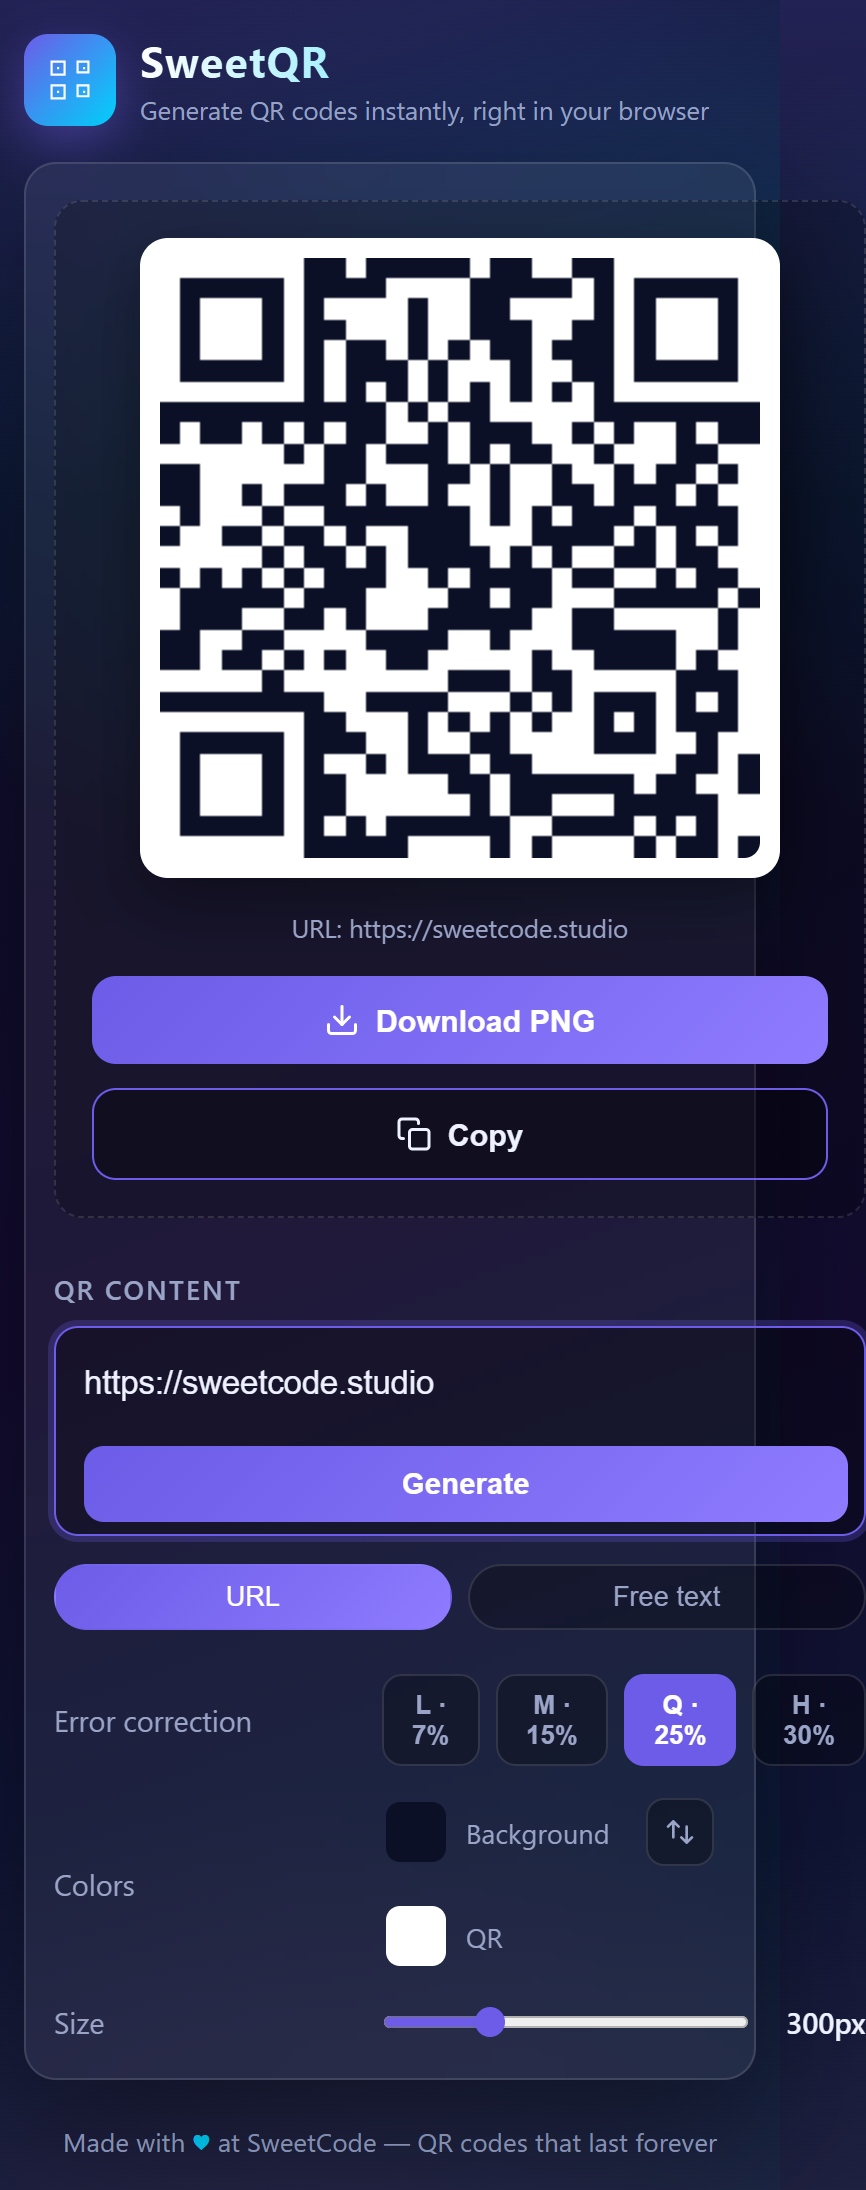
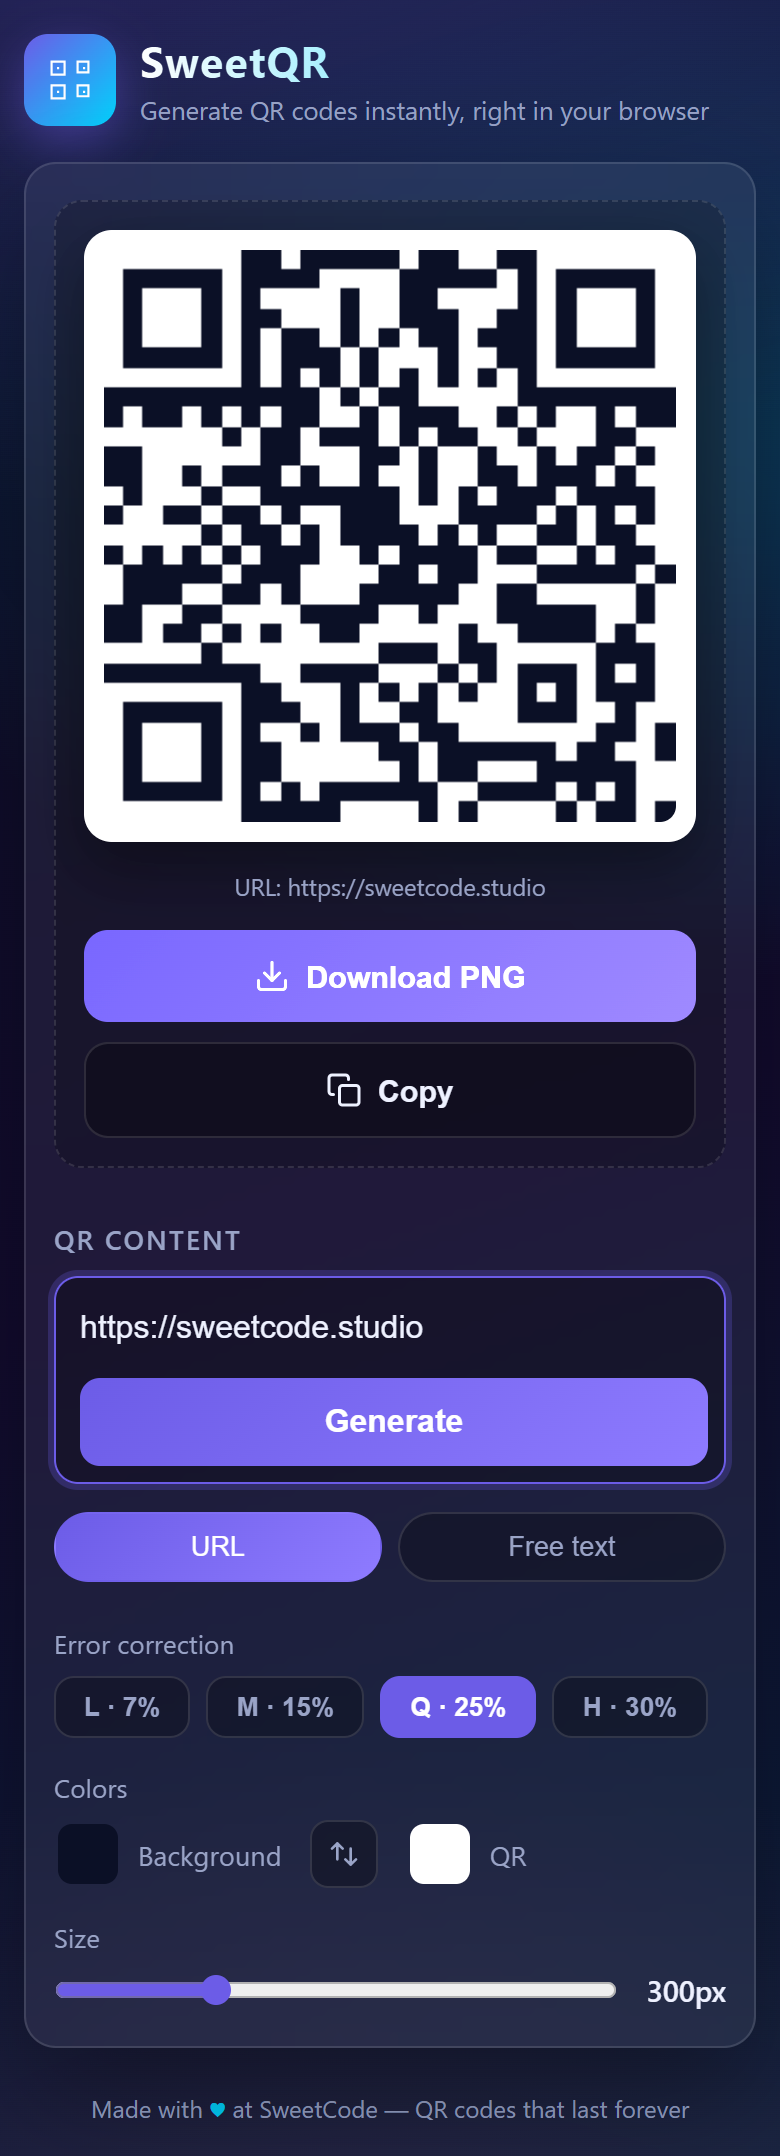
fix(css): move responsive media queries to the end so they override base rules (fixes mobile overflow)

diff --git a/index.html b/index.html
@@ -94,46 +94,6 @@
     align-items: start;
   }
 
-  @media (max-width: 860px) {
-    .grid { grid-template-columns: 1fr; }
-    .preview { min-height: 0; order: -1; }
-  }
-
-  @media (max-width: 520px) {
-    body { padding: 16px 12px; justify-content: flex-start; }
-    .panel { padding: 18px 14px; border-radius: 16px; }
-    .brand { margin-bottom: 18px; gap: 12px; }
-    .brand-logo { width: 46px; height: 46px; border-radius: 12px; }
-    .brand-logo svg { width: 26px; height: 26px; }
-    .brand h1 { font-size: 1.35rem; }
-    .brand p { font-size: 0.8rem; }
-
-    .field { flex-wrap: wrap; padding: 6px 8px 8px 12px; }
-    .field svg { display: none; }
-    #url { width: 100%; font-size: 1rem; padding: 10px 0 6px; }
-    .field button {
-      width: 100%;
-      padding: 13px;
-      border-radius: 10px;
-      font-size: 1rem;
-    }
-
-    .modes { flex-wrap: wrap; }
-    .mode { flex: 1; text-align: center; padding: 9px 12px; }
-
-    .opt-row { grid-template-columns: 1fr; gap: 8px; }
-    .opt-name { font-size: 0.82rem; }
-    .colors { flex-wrap: wrap; gap: 14px; }
-    .slider-wrap { gap: 10px; }
-    input[type="range"] { height: 8px; }
-
-    .preview { padding: 14px; gap: 14px; }
-    .actions { flex-direction: column; gap: 10px; }
-    .btn { padding: 14px; }
-    .qr-meta { font-size: 0.74rem; }
-    .foot { font-size: 0.75rem; }
-    .toast { width: calc(100% - 32px); text-align: center; font-size: 0.85rem; }
-  }
 
   .label {
     display: block;
@@ -383,6 +343,52 @@
   }
 
   .foot b { color: var(--accent-2); font-weight: 600; }
+
+  /* Prevent grid children from forcing horizontal overflow */
+  .grid > * { min-width: 0; }
+  .opt-row { min-width: 0; }
+
+  /* ===== Responsive (kept last so it overrides the base rules above) ===== */
+  @media (max-width: 860px) {
+    .grid { grid-template-columns: 1fr; }
+    .preview { min-height: 0; order: -1; }
+  }
+
+  @media (max-width: 520px) {
+    body { padding: 16px 12px; justify-content: flex-start; }
+    .panel { padding: 18px 14px; border-radius: 16px; }
+    .brand { margin-bottom: 18px; gap: 12px; }
+    .brand-logo { width: 46px; height: 46px; border-radius: 12px; }
+    .brand-logo svg { width: 26px; height: 26px; }
+    .brand h1 { font-size: 1.35rem; }
+    .brand p { font-size: 0.8rem; }
+
+    .field { flex-wrap: wrap; padding: 6px 8px 8px 12px; }
+    .field svg { display: none; }
+    #url { width: 100%; font-size: 1rem; padding: 10px 0 6px; }
+    .field button {
+      width: 100%;
+      padding: 13px;
+      border-radius: 10px;
+      font-size: 1rem;
+    }
+
+    .modes { flex-wrap: wrap; }
+    .mode { flex: 1; text-align: center; padding: 9px 12px; }
+
+    .opt-row { grid-template-columns: 1fr; gap: 8px; }
+    .opt-name { font-size: 0.82rem; }
+    .colors { flex-wrap: wrap; gap: 14px; }
+    .slider-wrap { gap: 10px; }
+    input[type="range"] { height: 8px; }
+
+    .preview { padding: 14px; gap: 14px; }
+    .actions { flex-direction: column; gap: 10px; }
+    .btn { padding: 14px; }
+    .qr-meta { font-size: 0.74rem; }
+    .foot { font-size: 0.75rem; }
+    .toast { width: calc(100% - 32px); text-align: center; font-size: 0.85rem; }
+  }
 </style>
 </head>
 <body>
